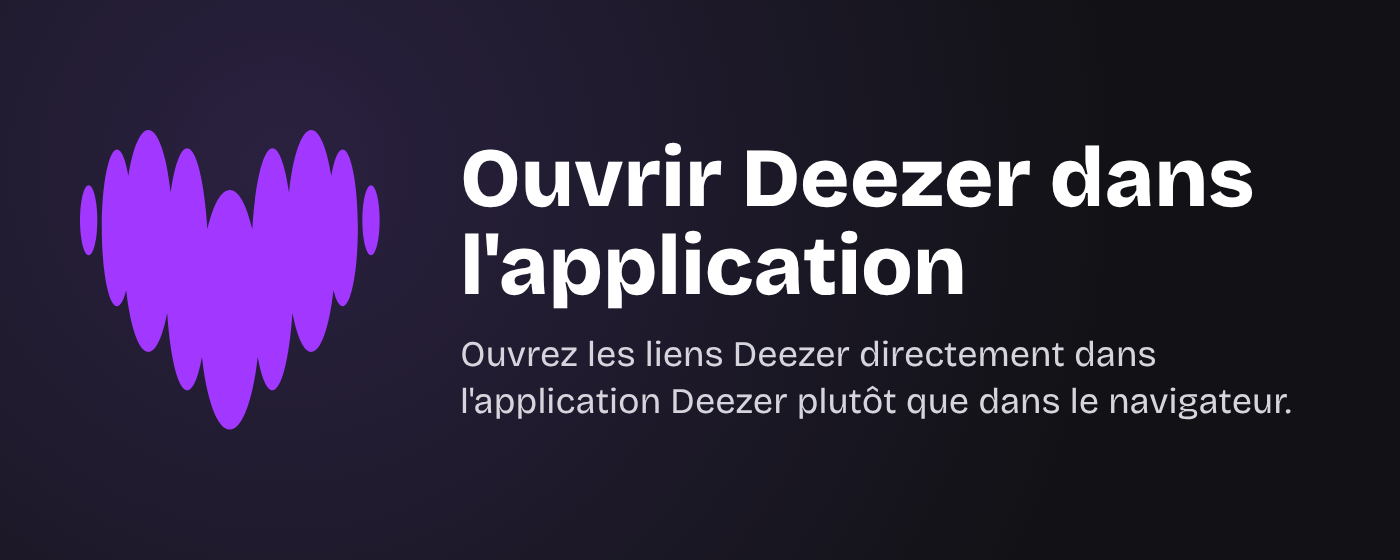
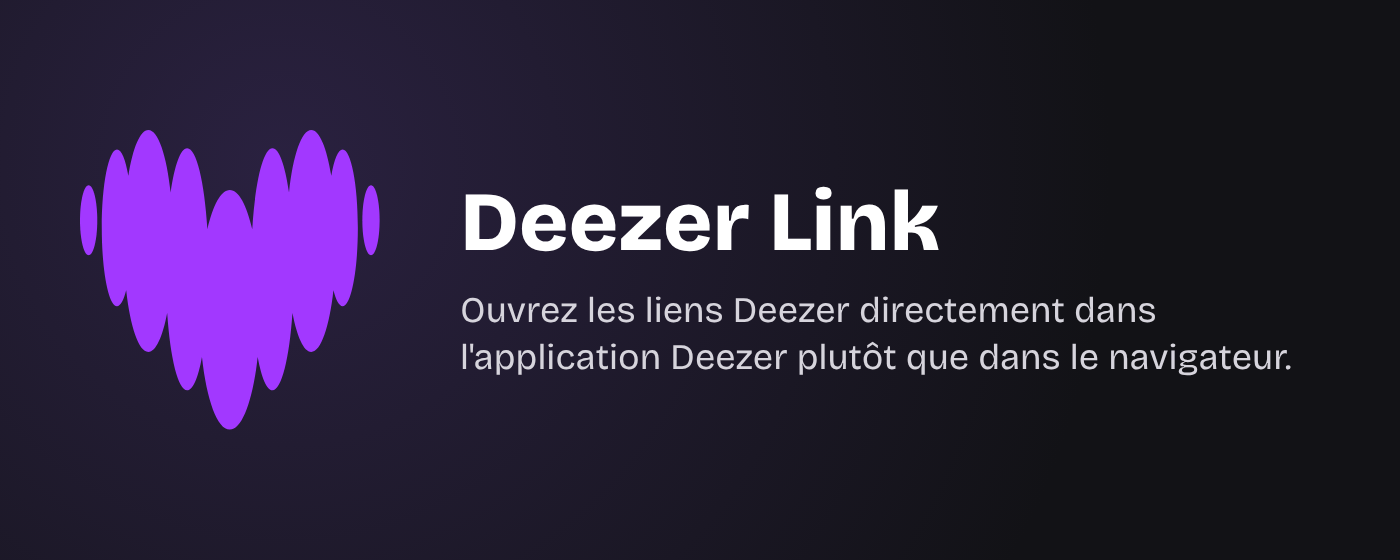
feat(dzr-link): rename to Deezer Link
The same name in every language, like Deezer Tab and Music Bridge: the
short description says what it does. Promo tiles regenerated.

Changed region(s): [[0.3071, 0.2429, 0.8907, 0.5768], [0.3071, 0.6982, 0.9214, 0.7589], [0.3071, 0.6071, 0.9214, 0.6679]]

diff --git a/extensions/dzr-link/entrypoints/deezer.content.ts b/extensions/dzr-link/entrypoints/deezer.content.ts
@@ -5,7 +5,7 @@ export default defineContentScript({
   allFrames: true,
   main() {
     if (isChromeOS(navigator.userAgent)) {
-      console.warn('[Open Deezer in desktop app] This script is not compatible with Chrome OS.');
+      console.warn('[Deezer Link] This script is not compatible with Chrome OS.');
       return;
     }
     window.location.href = getDeezerAppUrl(window.location.href)!;

diff --git a/extensions/dzr-link/store/README.md b/extensions/dzr-link/store/README.md
@@ -1,4 +1,4 @@
-# Open Deezer in desktop app: store listings
+# Deezer Link: store listings
 
 Everything the store listings ask for, in one place, in every language of the extension (English and French). The images are next to this file, rendered by `pnpm store-assets` (see the [root README](../../../README.md#icons-and-store-images)).
 
@@ -24,8 +24,8 @@ Everything the store listings ask for, in one place, in every language of the ex
 
 The manifest takes them from [`public/_locales`](../public/_locales).
 
-- **EN**: Open Deezer in desktop app. Get redirected to the Deezer desktop app when you open a Deezer link in the browser.
-- **FR**: Ouvrir Deezer dans l'application. Ouvrez les liens Deezer directement dans l'application Deezer plutôt que dans le navigateur.
+- **EN**: Deezer Link. Get redirected to the Deezer desktop app when you open a Deezer link in the browser.
+- **FR**: Deezer Link. Ouvrez les liens Deezer directement dans l'application Deezer plutôt que dans le navigateur.
 
 ## Description
 

diff --git a/extensions/dzr-link/README.md b/extensions/dzr-link/README.md
@@ -1,4 +1,4 @@
-# Open Deezer in desktop app
+# Deezer Link
 
 **Get redirected to the Deezer desktop app when you open a Deezer link in the browser.**
 

diff --git a/.changeset/dzr-link-name.md b/.changeset/dzr-link-name.md
@@ -1,0 +1,5 @@
+---
+'dzr-link': patch
+---
+
+Renamed to Deezer Link, in every language.
